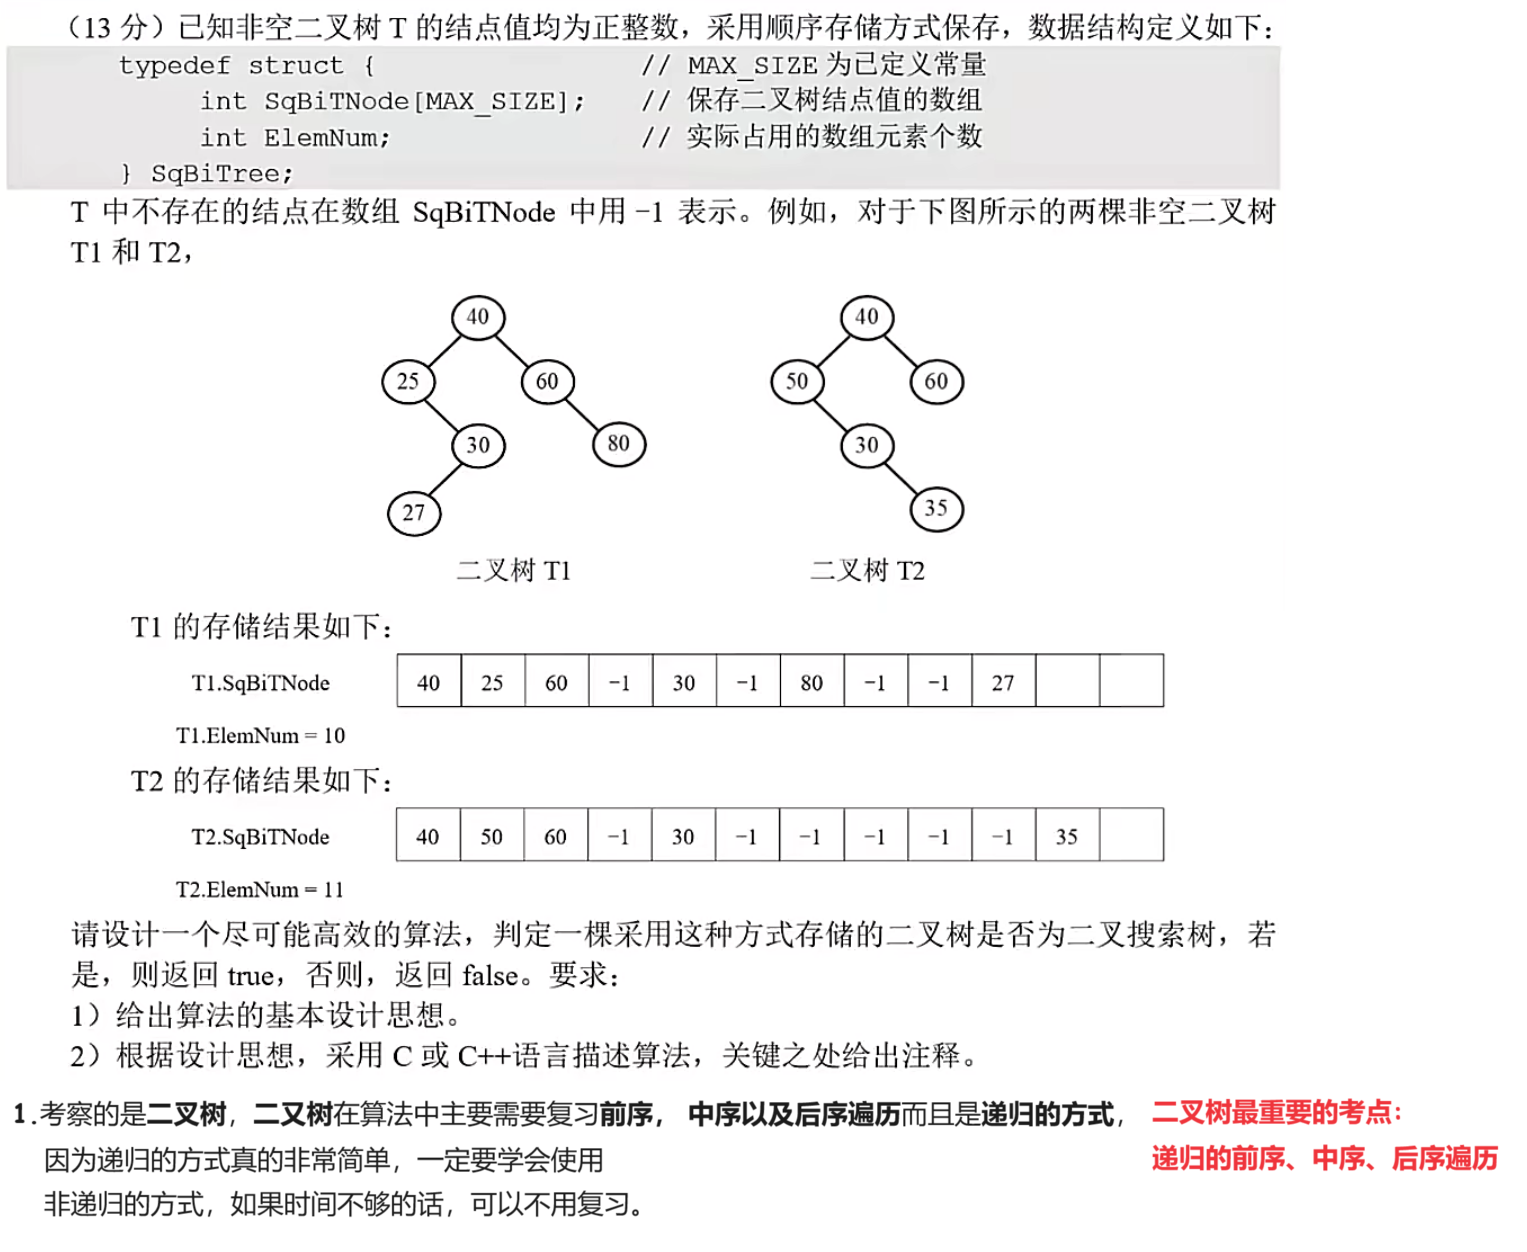
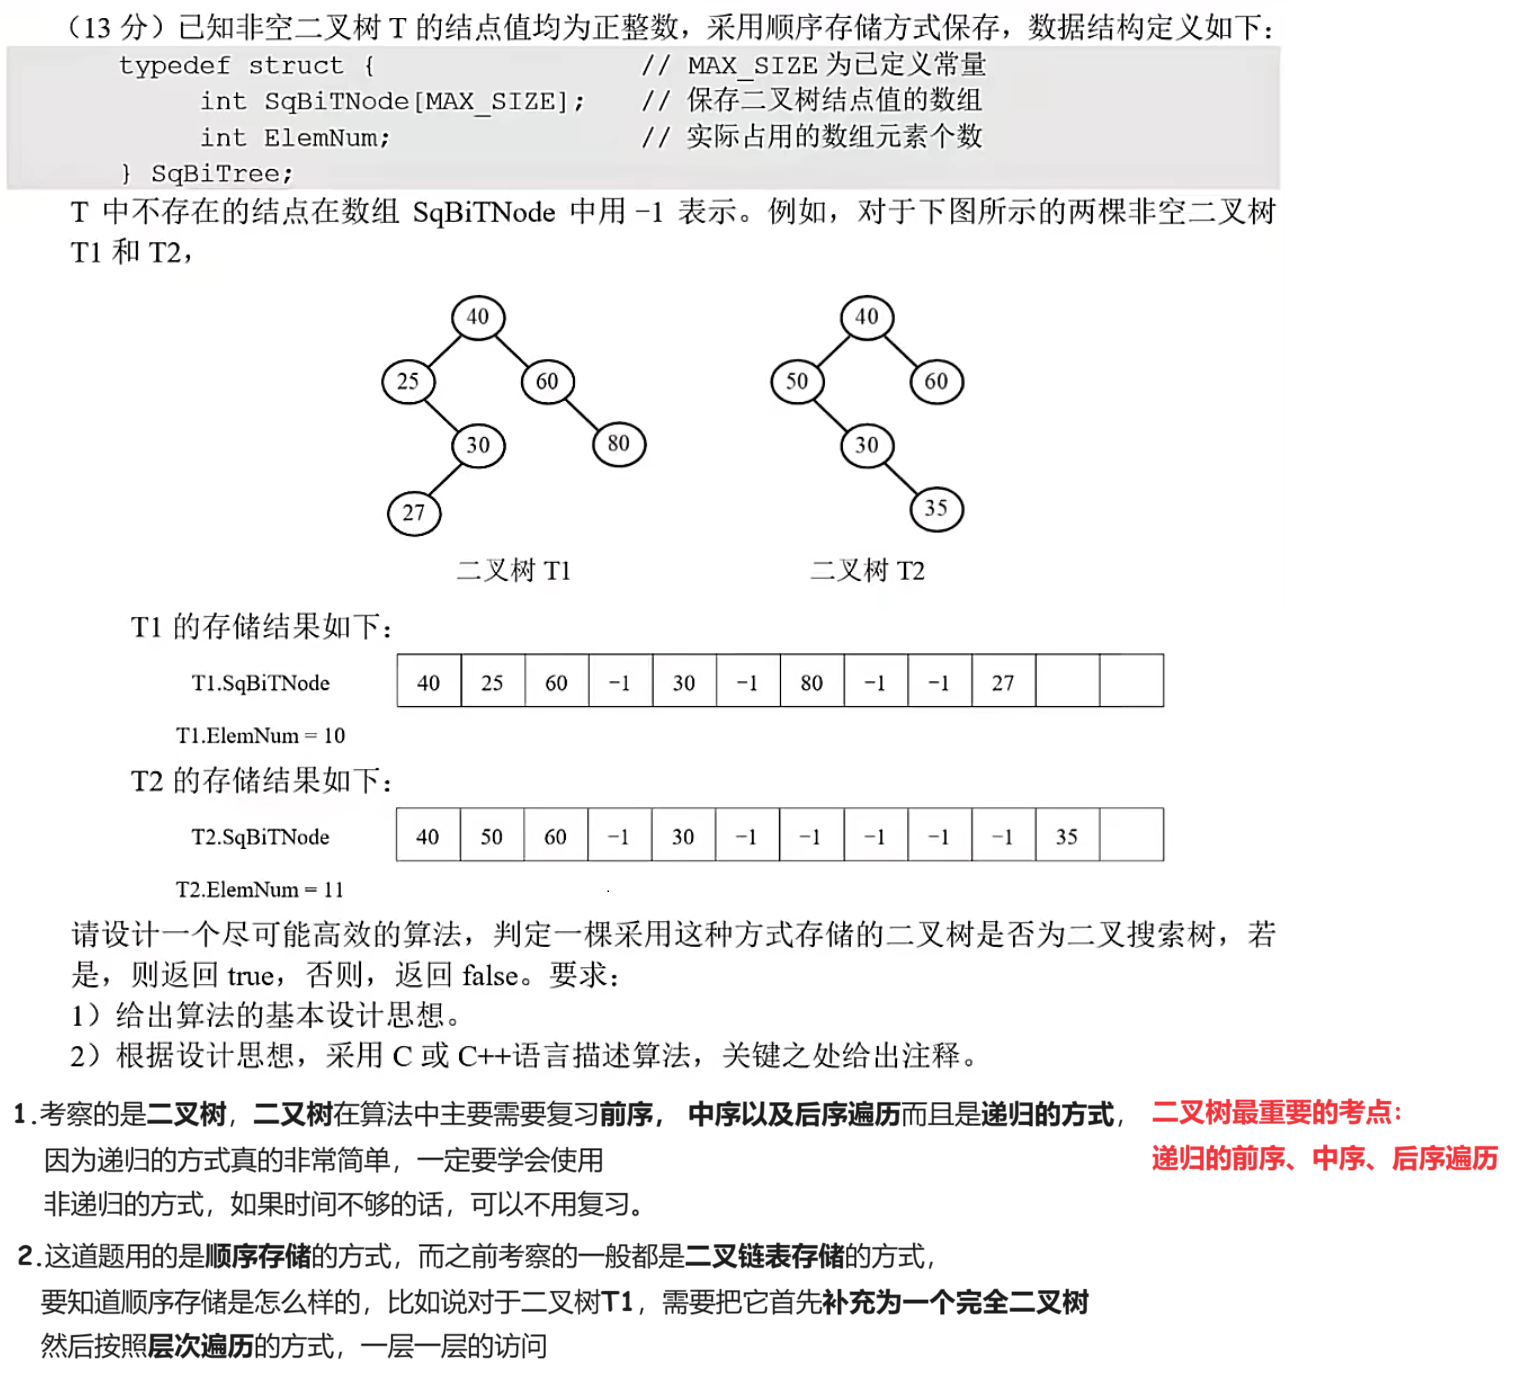
2321014

Changed region(s): [[0.0, 0.2181, 0.9849, 0.9968], [0.0, 0.0, 0.831, 0.2181]]

diff --git a/04 每日一题/09 22 数据结构 二叉树前中后序遍历 231013 D29/01 Note.md b/04 每日一题/09 22 数据结构 二叉树前中后序遍历 231013 D29/01 Note.md
@@ -6,4 +6,21 @@
 
 # 视频解析
 
-<img src="https://cvp.oss-cn-shanghai.aliyuncs.com/picgo/202310131844137.png" alt="image-20231013184403905" style="zoom:60%;" />
+<img src="https://cvp.oss-cn-shanghai.aliyuncs.com/picgo/202310140858631.png" alt="image-20231014085825345" style="zoom: 60%;" />
+
+
+
+# 满二叉树 完全二叉树
+
+<img src="https://cvp.oss-cn-shanghai.aliyuncs.com/picgo/202310141032478.png" alt="image-20231014103244290" style="zoom:50%;" />
+
+
+
+# 将二叉树T1补充成完全二叉树
+
+<img src="https://cvp.oss-cn-shanghai.aliyuncs.com/picgo/202310141140099.png" alt="image-20231014114021001" style="zoom: 70%;" />
+
+
+
+# 层次遍历
+
